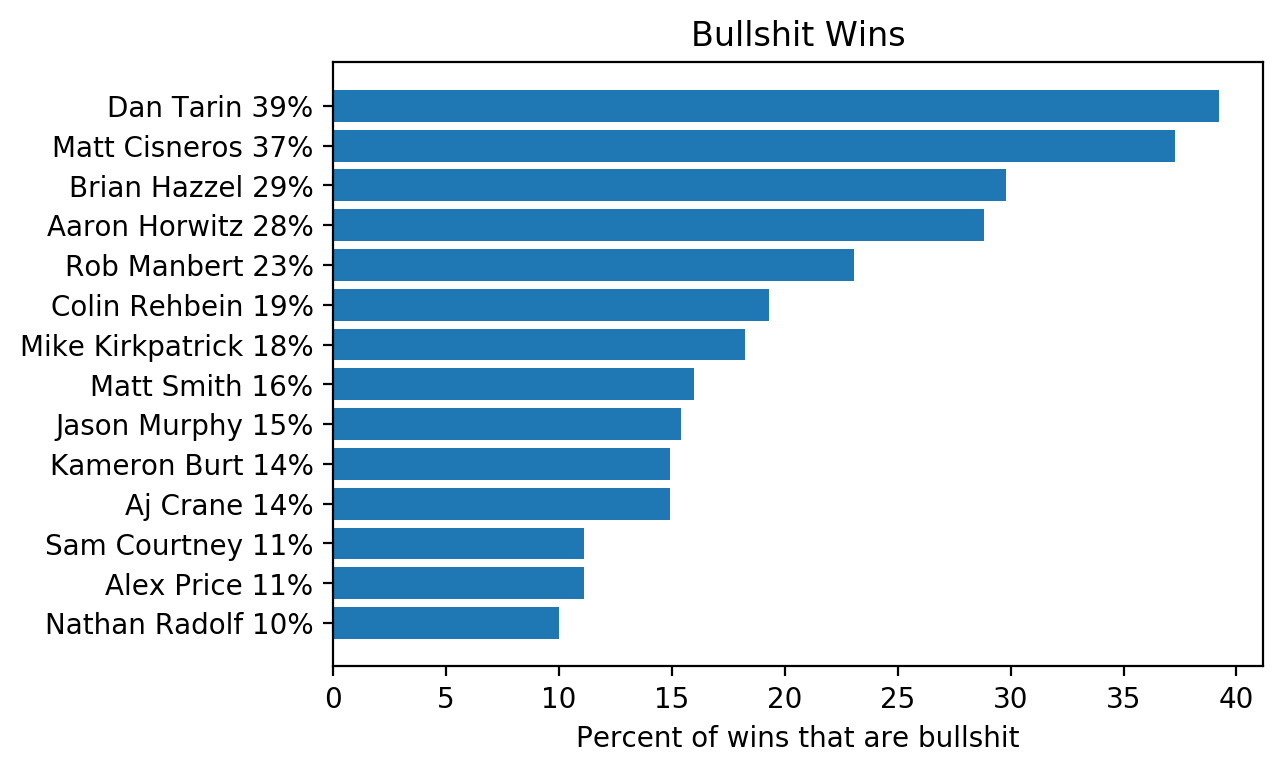
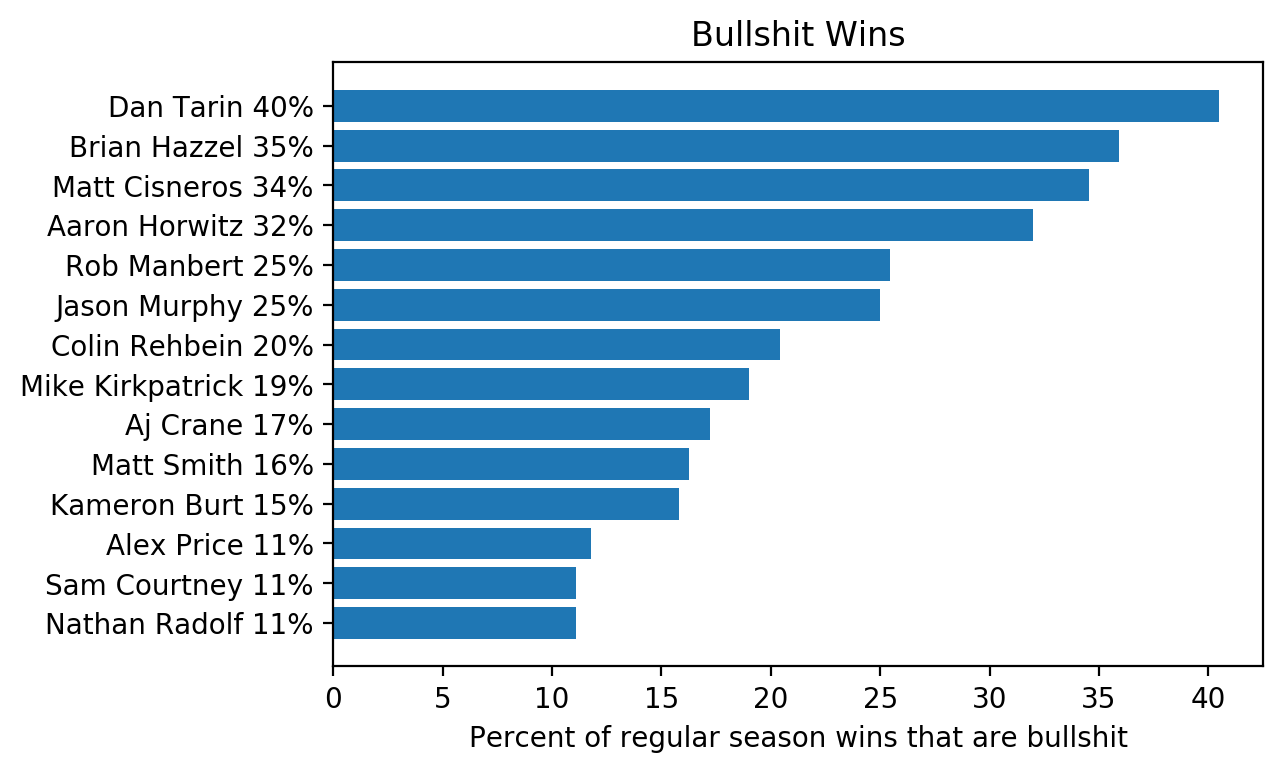
saving work

diff --git a/analyses.py b/analyses.py
@@ -8,10 +8,17 @@ Created on Sat Oct 26 22:30:03 2019
 
 Ideas:
     Regular season:
-        Bullshit wins
-        Shitty losses
+        -Bullshit wins
+        -Shitty losses
         highest score ever
         Lowest score ever
+        -Win percentage
+        -Average rank
+        Bench composition
+        -Poor Coaching (players with 0 points not on bench)
+    Playoffs
+        Most appearances
+        Most wins
     See if players that win during the week actually influence the fantasy outcome
 
 
@@ -71,51 +78,201 @@ oswDf['coach'] = oswDf.apply(assignCoach, axis=1)
 oswpDf['coach'] = oswpDf.apply(assignCoach, axis=1)
 
 
+#~~~~~~~~~~~~~~~~~~~~~~~~~~~~~~~~~~~~~~~~~~~~#
+#     ADD REGULAR SEASON WEEKS INDICATOR     #
+#~~~~~~~~~~~~~~~~~~~~~~~~~~~~~~~~~~~~~~~~~~~~#
+def getSeasonWeekDict(seasonDf):
+    def regSeasonMaxWeek(row):
+        record = row['teamRecordRegSeason']
+        wks = 0
+        for rec in record.split('-'):
+            wks = wks + int(rec)
+        return wks
+    temp = pd.DataFrame(seasonDf.groupby('season')['teamRecordRegSeason'].max())
+    temp['regSeasonMaxWeek'] = temp.apply(regSeasonMaxWeek, axis=1)
+    seasons = list(temp.index.values)
+    regSeasonMaxWeek = temp['regSeasonMaxWeek'].tolist()
+    dic = dict(zip(seasons, regSeasonMaxWeek))
+    return dic
+
+def isRegSeasonWeek(row):
+    wkTest = seasonWeek[row['season']]
+    if row['week'] <= wkTest:
+        isRegSeason = 1
+    elif row['week'] > wkTest:
+        isRegSeason = 0
+    return isRegSeason
+
+seasonWeek = getSeasonWeekDict(osDf)
+oswDf['isRegSeason'] = oswDf.apply(isRegSeasonWeek, axis=1)
+oswpDf['isRegSeason'] = oswpDf.apply(isRegSeasonWeek, axis=1)
+del seasonWeek
+
+
+#~~~~~~~~~~~~~~~~~~~~~~~~~~~~~~~~~~~~~~~#
+#     Regular Season Win Percentage     #
+#~~~~~~~~~~~~~~~~~~~~~~~~~~~~~~~~~~~~~~~#
+def plotRegSeasonWinPct(df):
+    measureLabel = 'teamWinPctRegSeason'
+    temp = pd.DataFrame(df.groupby('coach')[measureLabel].mean()*100)
+    temp = temp.sort_values(by=[measureLabel])
+    labels = list(temp.index.values) 
+    y_pos = np.arange(len(temp))
+    newLabels = []
+    for label in labels:
+        newLabel = label +' '+ str(int(temp[measureLabel][label])) + '%'
+        newLabels.append(newLabel)
+        
+    plt.barh(y_pos, temp[measureLabel])
+    plt.yticks(y_pos, newLabels)
+    plt.title('Regular Season Win Percentage')
+    plt.xlabel('Percent of regular season matchups that are wins')
+    plt.savefig('plots/reg_season_win_pct.png', dpi=200, bbox_inches='tight')
+    
+
+plotRegSeasonWinPct(osDf)
+
+
+#~~~~~~~~~~~~~~~~~~~~~~~~~~~~~~~~#
+#     Regular Season Ranking     #
+#~~~~~~~~~~~~~~~~~~~~~~~~~~~~~~~~#
+def plotRegSeasonRanking(df):
+    measureLabel = 'teamRankRegSeason'
+    temp = pd.DataFrame(df.groupby('coach')[measureLabel].mean())
+    temp = temp.sort_values(by=[measureLabel], ascending=False)
+    labels = list(temp.index.values) 
+    y_pos = np.arange(len(temp))
+    newLabels = []
+    for label in labels:
+        newLabel = label +' '+ str(int(temp[measureLabel][label]))
+        newLabels.append(newLabel)
+        
+    plt.barh(y_pos, temp[measureLabel])
+    plt.yticks(y_pos, newLabels)
+    plt.title('Regular Season Average Ranking')
+    plt.xlabel('Average ranking at the end of the regular season')
+    plt.savefig('plots/reg_season_rank.png', dpi=200, bbox_inches='tight')
+    
+plotRegSeasonRanking(osDf) 
+
 
 #~~~~~~~~~~~~~~~~~~~~~~~#
 #     Bullshit Wins     #
 #~~~~~~~~~~~~~~~~~~~~~~~#
 ''' For each coach, what percent of your wins are bullshit wins?
-    A bullshit win is when you win and your points is less than 
+    A bullshit win is when you win and your points are less than 
     the median points for the week'''
 def bullshitWins(row):
     matchupResult = row['teamMatchupResult']
     weekRank = row['teamWeekRank']
-    if matchupResult == 'Win' and weekRank >= 7:
+    regSeason = row['isRegSeason']
+    if matchupResult == 'Win' and weekRank >= 7 and regSeason == 1:
         bsWin = 100
-    else:
+    elif matchupResult == 'Win' and weekRank < 7 and regSeason == 1:
         bsWin = 0
+    else:
+        bsWin = None
     return bsWin
 
 oswDf['bullshitWin'] = oswDf.apply(bullshitWins, axis=1)
-temp = oswDf[oswDf['teamMatchupResult']=='Win']
-temp = pd.DataFrame(temp.groupby('coach')['bullshitWin'].mean())
-temp = temp.sort_values(by=['bullshitWin'])
 
 
-labels = list(temp.index.values) 
-y_pos = np.arange(len(temp))
-newLabels = []
-for label in labels:
-    newLabel = label +' '+ str(int(temp['bullshitWin'][label])) + '%'
-    newLabels.append(newLabel)
-    
-plt.barh(y_pos, temp['bullshitWin'])
-plt.yticks(y_pos, newLabels)
-plt.title('Bullshit Wins')
-plt.xlabel('Percent of wins that are bullshit')
-plt.savefig('plots/bullshit_wins.png', dpi=200, bbox_inches='tight')
+def plotBullshitWins(df):
+    temp = pd.DataFrame(df.groupby('coach')['bullshitWin'].mean())
+    temp = temp.sort_values(by=['bullshitWin'])
+    labels = list(temp.index.values) 
+    y_pos = np.arange(len(temp))
+    newLabels = []
+    for label in labels:
+        newLabel = label +' '+ str(int(temp['bullshitWin'][label])) + '%'
+        newLabels.append(newLabel)
+        
+    plt.barh(y_pos, temp['bullshitWin'])
+    plt.yticks(y_pos, newLabels)
+    plt.title('Bullshit Wins')
+    plt.xlabel('Percent of regular season wins that are bullshit')
+    plt.savefig('plots/bullshit_wins.png', dpi=200, bbox_inches='tight')
 
-
-
-
-
+plotBullshitWins(oswDf)
 
 
 
 
+#~~~~~~~~~~~~~~~~~~~~~~~#
+#     Shitty Losses     #
+#~~~~~~~~~~~~~~~~~~~~~~~#
+''' For each coach, what percent of your losses are shitty losses?
+    A shitty loss is when you lose and your points are higher than 
+    the median points for the week'''
+def shittyLosses(row):
+    matchupResult = row['teamMatchupResult']
+    weekRank = row['teamWeekRank']
+    regSeason = row['isRegSeason']
+    if matchupResult == 'Loss' and weekRank < 7 and regSeason == 1:
+        bsWin = 100
+    elif matchupResult == 'Loss' and weekRank > 7 and regSeason == 1:
+        bsWin = 0
+    else:
+        bsWin = None
+    return bsWin
+
+oswDf['shittyLoss'] = oswDf.apply(shittyLosses, axis=1)
+
+def plotShittyLosses(df):
+    temp = pd.DataFrame(df.groupby('coach')['shittyLoss'].mean())
+    temp = temp.sort_values(by=['shittyLoss'])
+    labels = list(temp.index.values) 
+    y_pos = np.arange(len(temp))
+    newLabels = []
+    for label in labels:
+        newLabel = label +' '+ str(int(temp['shittyLoss'][label])) + '%'
+        newLabels.append(newLabel)
+        
+    plt.barh(y_pos, temp['shittyLoss'])
+    plt.yticks(y_pos, newLabels)
+    plt.title('Shitty Losses')
+    plt.xlabel('Percent of regular season losses that are shitty')
+    plt.savefig('plots/shitty_losses.png', dpi=200, bbox_inches='tight')
+
+plotShittyLosses(oswDf)
 
 
+
+
+
+
+#~~~~~~~~~~~~~~~~~~~~~~~#
+#     Poor Coaching     #
+#~~~~~~~~~~~~~~~~~~~~~~~#
+def poorCoaching(row):
+    poorCoaching = None
+    if row['playerPosition'] != 'BN' and row['isRegSeason'] == 1:
+        if row['playerPoints'] <= 0.0:
+            poorCoaching = 1
+        elif row['playerPoints'] > 0.0:
+            poorCoaching = 0
+    return poorCoaching
+
+oswpDf['poorCoaching'] = oswpDf.apply(poorCoaching, axis=1)
+
+def plotPoorCoaching(df):
+    measureLabel = 'poorCoaching'
+    temp = pd.DataFrame(df.groupby('coach')[measureLabel].mean()*100)
+    temp = temp.sort_values(by=[measureLabel])
+    labels = list(temp.index.values)
+    y_pos = np.arange(len(temp))
+    newLabels = []
+    for label in labels:
+        newLabel = label +' '+ str(int(temp[measureLabel][label])) + '%'
+        newLabels.append(newLabel)
+        
+    plt.barh(y_pos, temp[measureLabel])
+    plt.yticks(y_pos, newLabels)
+    plt.title('Regular Season Poor Coaching Percentage')
+    plt.xlabel('Percent of regular season players played that got less than 0 points')
+    plt.savefig('plots/reg_season_poor_coaching.png', dpi=200, bbox_inches='tight')
+
+plotPoorCoaching(oswpDf)
 
 
 
